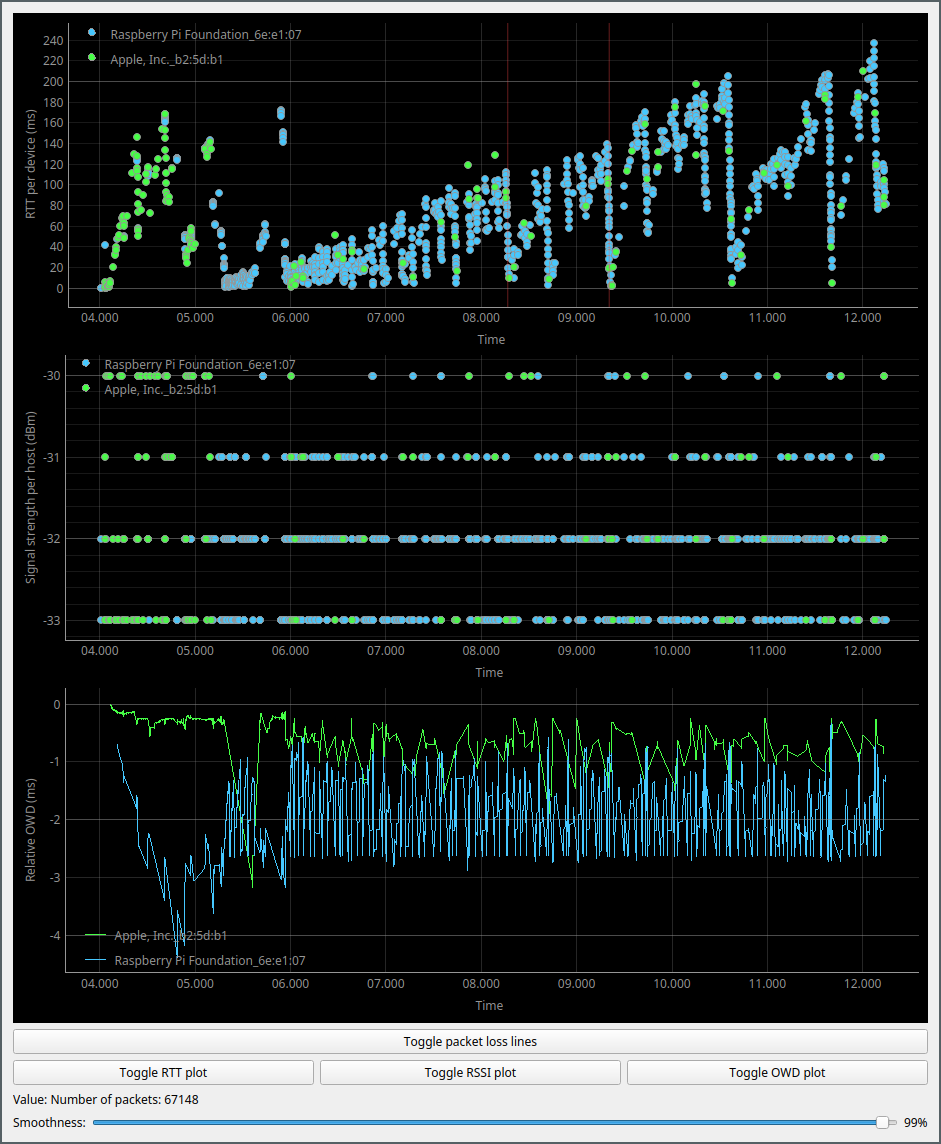
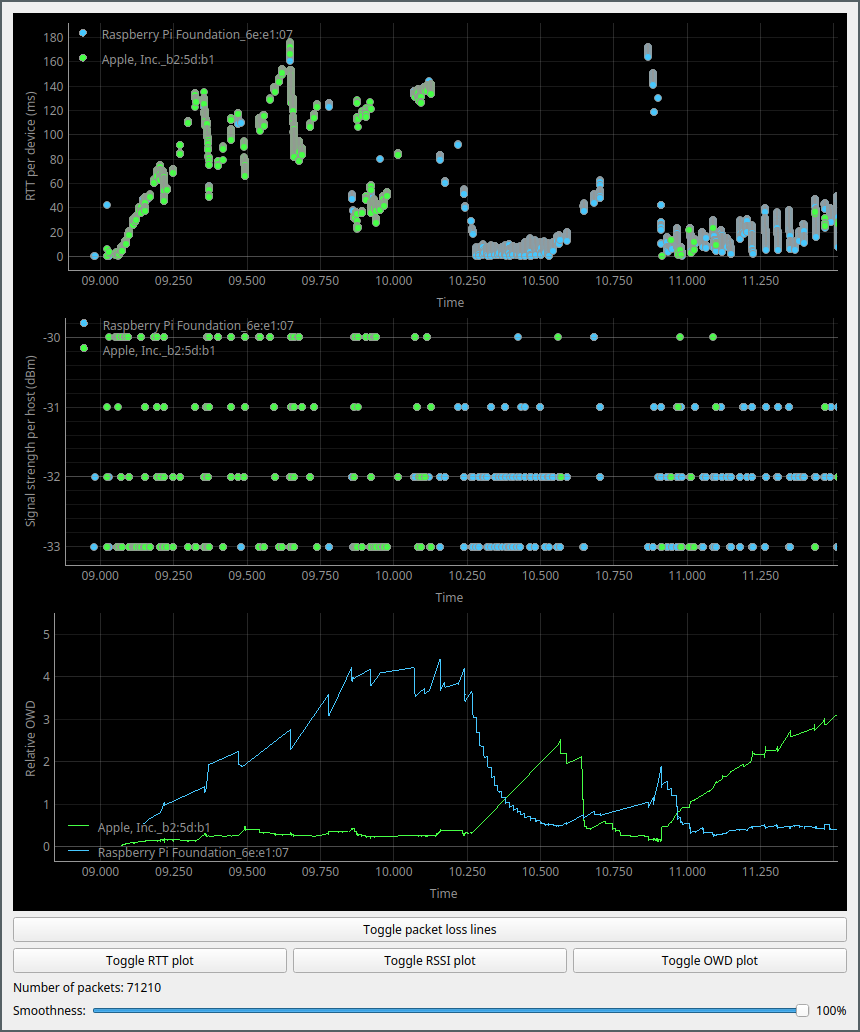
updated code

diff --git a/src/TCPPacket.py b/src/TCPPacket.py
@@ -334,9 +334,9 @@ class TCPPacket:
                 self.owd_diff = 0
                 return
 
-            _owd_diff = owd - self.flow_direction.owd
+            _owd_diff = self.flow_direction.owd - owd
             if abs(_owd_diff) < 1000:
-                self.owd_diff = _owd_diff
+                self.owd_diff = _owd_diff * 1000  # multiply, because of GUI axis units (see gui.py)
             if get_output(): print(f"OWD difference from previous: {_owd_diff}")
             self.flow_direction.owd = owd
 
@@ -378,17 +378,15 @@ class TCPPacket:
         self.flow_direction.cap_time = self.cap_time
         self.flow_direction.rtt = self.rtt
 
-        # Add TSval to flow timestamp dictionary.
-        # If timestamps not enabled, fallback to SEQ/ACK.
-        # Only add packets with data (segment length > 0)
-        # For non-TS packets, we want to add the last one each time.
-        # (skips the "exists in flow" check that TS packets do)
-
-        # SYN, SYN/ACK, FIN or FIN/ACK packets are always added
+        """ Add valid outgoing data packets to Timestamp hashmap if it is
+            a retransmission with TCP timestamps enabled, other wise
+            add it to the SEQ/ACK hashmap.
+        """
+        # SYN, SYN/ACK, FIN and FIN/ACK packets are always added
         if (self.flags & (SYN|FIN)) > 0 and check_from_local(self):
             self.flow_direction.pair_pkts[self.next_seq] = self
 
-        # Only add data packets
+        # Only add data packets from local
         elif check_from_local(self) and self.seg_len > 0:
             # Retransmission with timestamps enabled
             if (self.is_retransmission
@@ -396,8 +394,7 @@ class TCPPacket:
                     and self.tsval not in self.flow_direction.ts_pair):
                 self.flow_direction.ts_pair[self.tsval] = self
 
-             # Do not add retransmissions without timestamps enabled
-            elif not self.is_retransmission:
+            else:
                 # Add by next_seq for SEQ/ACK pairing
                 self.flow_direction.pair_pkts[self.next_seq] = self
 

diff --git a/src/gui.py b/src/gui.py
@@ -162,7 +162,7 @@ class MyPlotWidget(pg.GraphicsLayoutWidget):
         # Axes
         y_axis = pg.AxisItem(orientation='left')
         y_axis.setGrid(128)
-        y_axis.setLabel(text='Relative OWD', units='s')  # pg dislikes scaling prefexes
+        y_axis.setLabel(text='Relative OWD')  # No unit as smoothed value is not in ms anymore
 
         x_axis = (pg.DateAxisItem(orientation='bottom', utcOffset=0)
                   if isset_relative_time()
@@ -177,7 +177,6 @@ class MyPlotWidget(pg.GraphicsLayoutWidget):
 
         # Signal range scale changes
         self.owd_plot_item.setXLink(self.rtt_plot_item)
-
 
         # --- Update timer --- #
         self.timer = pg.QtCore.QTimer()
@@ -349,7 +348,7 @@ class MyPlotWidget(pg.GraphicsLayoutWidget):
                         pen=_pen,
                         name=_name,
                         hoverable=True,
-                        tip='OWD diff: {y:.5g} ms'.format)
+                        tip='OWD diff: {y:.5g}'.format)
 
             # Add new curve
             self.owd_plots[flow_key] = new_curve

diff --git a/src/main.py b/src/main.py
@@ -20,7 +20,6 @@ from common import (
         set_write_pcap,
     )
 from gui import init_plot_obj
-#from db_helpers import get_db
 from logger import start_logger
 
 #DB_NAME = "pkt_db"
